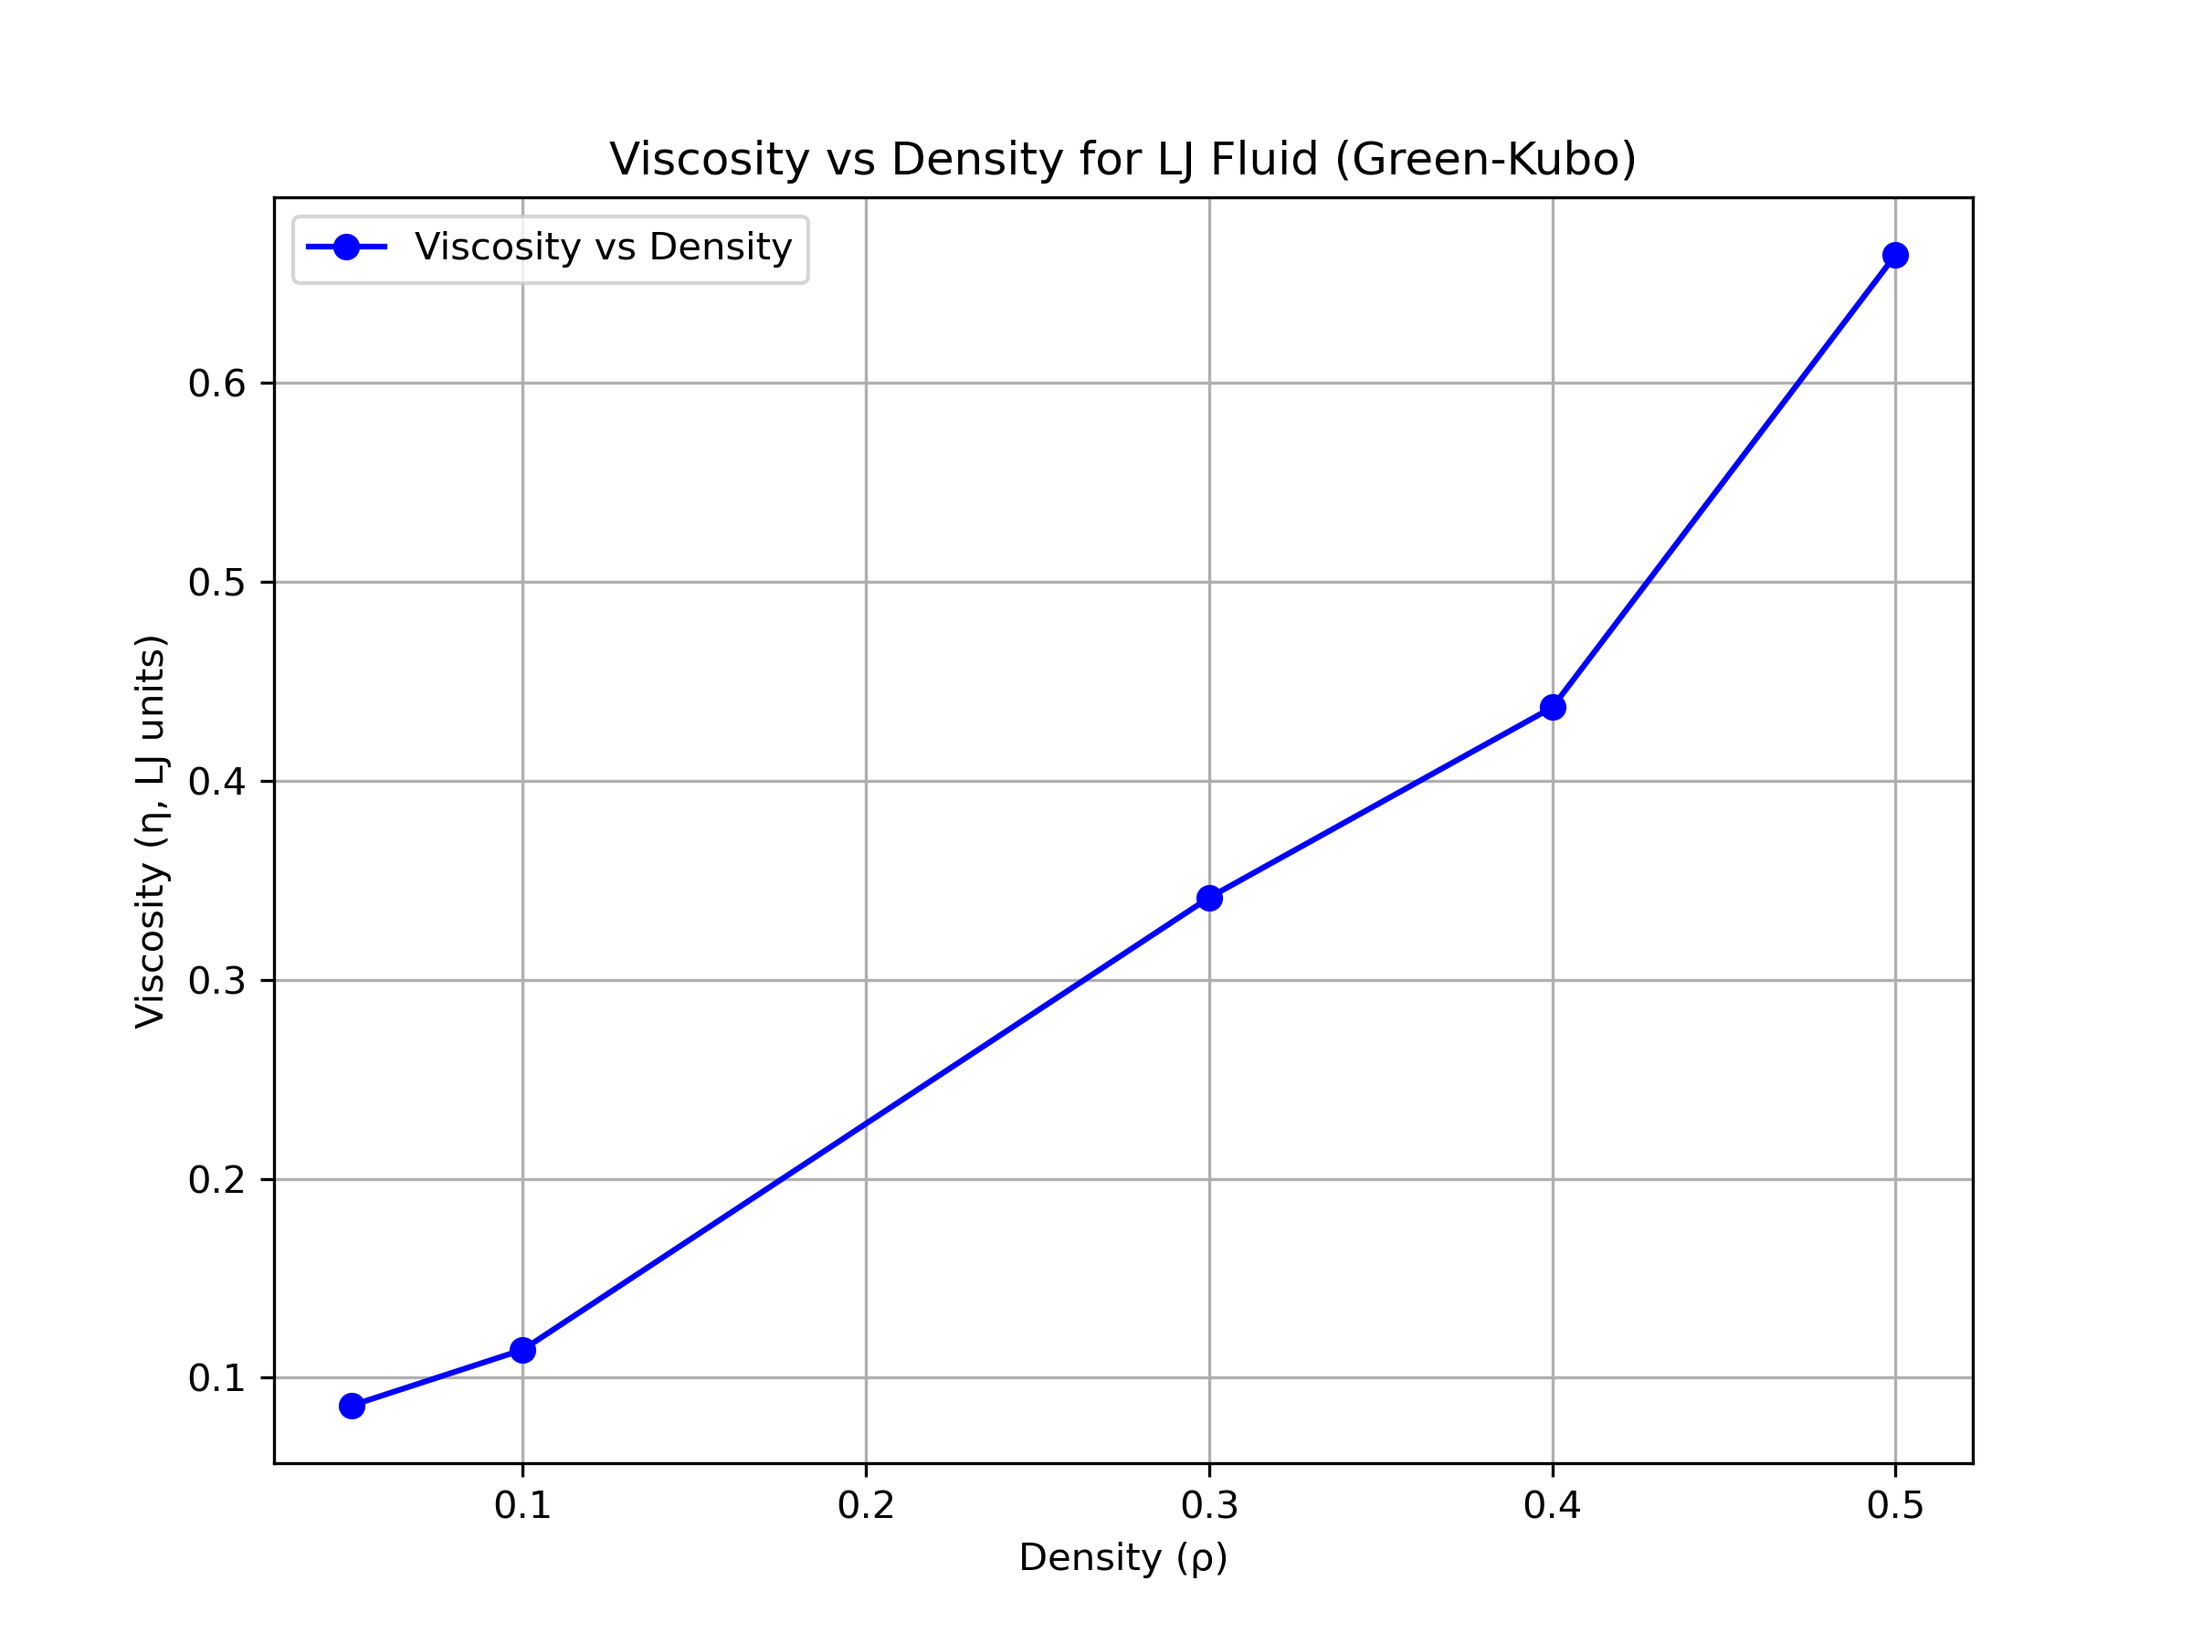
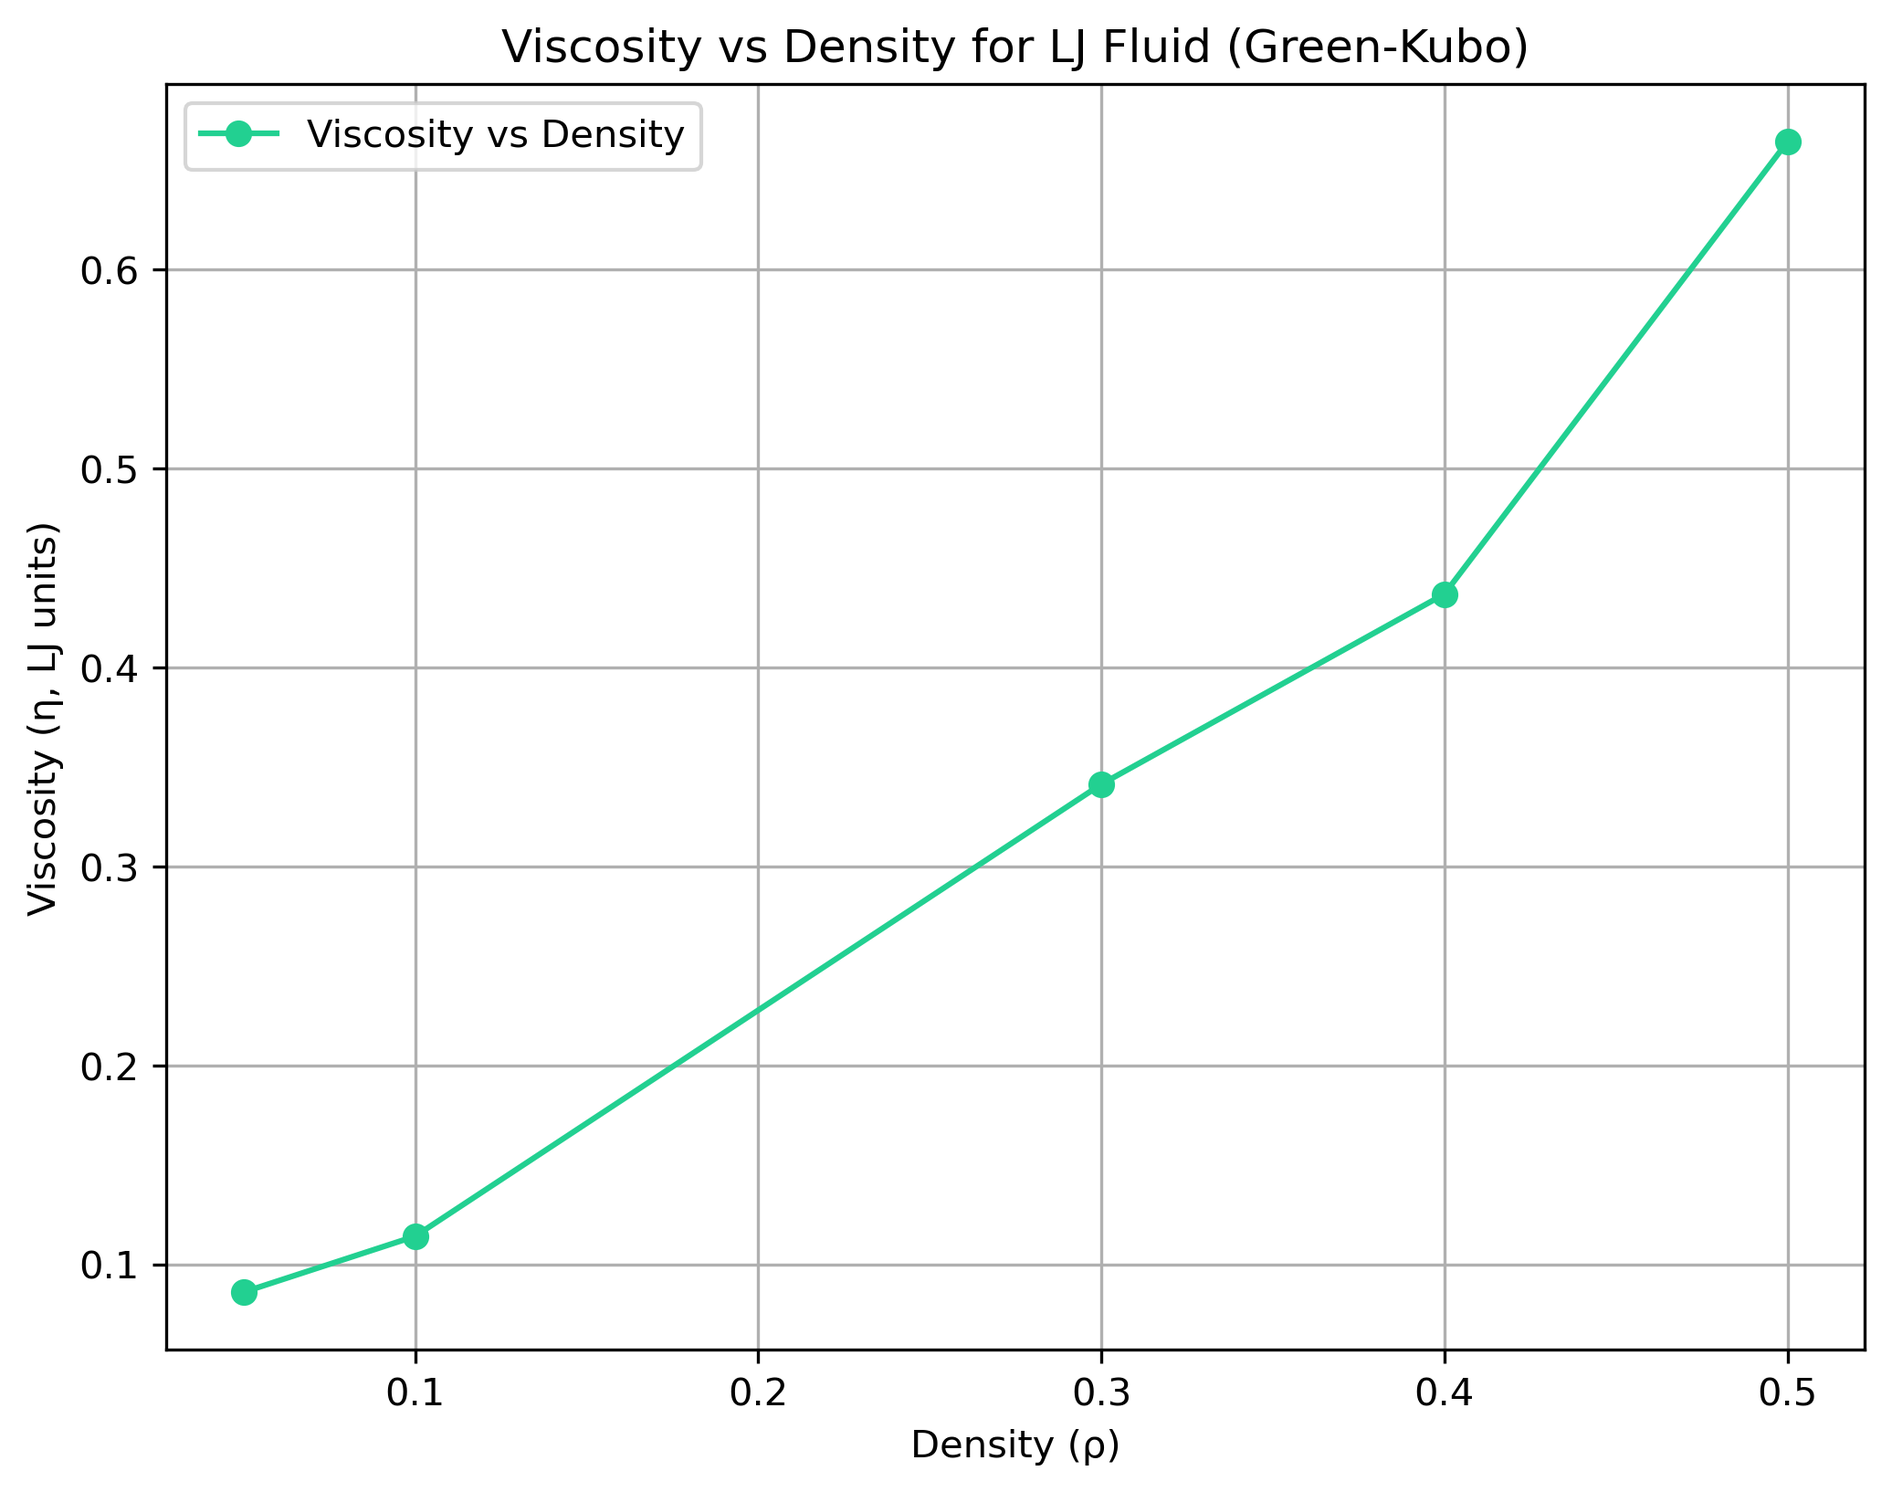
feb_5_9_AM_upate

diff --git a/Exercises/Exercise_4/density_profile_fitter.py b/Exercises/Exercise_4/density_profile_fitter.py
@@ -2,37 +2,39 @@ import numpy as np
 import matplotlib.pyplot as plt
 from scipy.optimize import curve_fit
 
-# Define the tangent hyperbolic mean-field function for fitting
+# -----------------------------
+# Define the tanh mean-field profile
+# -----------------------------
 def tanh_profile(z, rho_l, rho_g, z0, alpha):
     """
     Tanh function describing the liquid-gas density profile.
-    
-    Parameters:
-        z (float or array): Spatial coordinate.
-        rho_l (float): Liquid density.
-        rho_g (float): Gas density.
-        z0 (float): Interface position.
-        alpha (float): Interfacial width parameter.
-        
-    Returns:
-        float or array: Density profile at position z.
     """
     return 0.5 * (rho_l + rho_g) + 0.5 * (rho_l - rho_g) * np.tanh((z - z0) / alpha)
 
-# Load data from file (replace 'data.txt' with your actual file)
-# Data format: First column -> z, Second column -> density
+# -----------------------------
+# Load data
+# -----------------------------
+# Data format: first column -> z, second column -> density
 z, rho_noisy = np.loadtxt('averaged_density_profile.txt', unpack=True)
 
-# Estimate initial parameters from data
+# -----------------------------
+# Initial parameter estimates
+# -----------------------------
 rho_l_init = np.max(rho_noisy)
 rho_g_init = np.min(rho_noisy)
 z0_init = z[np.argmax(np.abs(np.gradient(rho_noisy)))]
 alpha_init = (np.max(z) - np.min(z)) / 10
 
-# Fit the density profile to the tangent hyperbolic function
-popt, pcov = curve_fit(tanh_profile, z, rho_noisy, p0=[rho_l_init, rho_g_init, z0_init, alpha_init])
+# -----------------------------
+# Curve fitting
+# -----------------------------
+popt, pcov = curve_fit(
+    tanh_profile,
+    z,
+    rho_noisy,
+    p0=[rho_l_init, rho_g_init, z0_init, alpha_init]
+)
 
-# Extract fitted parameters
 rho_l_fit, rho_g_fit, z0_fit, alpha_fit = popt
 
 print(f"Fitted Liquid Density: {rho_l_fit}")
@@ -40,22 +42,68 @@ print(f"Fitted Gas Density: {rho_g_fit}")
 print(f"Fitted Interface Position (z0): {z0_fit}")
 print(f"Fitted Interface Width (alpha): {alpha_fit}")
 
-# Calculate interface boundaries (e.g., z0 ± 2*alpha)
+# -----------------------------
+# Interface boundaries
+# -----------------------------
 interface_start = z0_fit - 2 * alpha_fit
 interface_end = z0_fit + 2 * alpha_fit
 
-# Plot the results and export as high-resolution image
+# -----------------------------
+# Generate random non-white colors
+# -----------------------------
+def random_color_nonwhite():
+    # RGB values between 0.0 and 0.85 to avoid white/light colors
+    return np.random.uniform(0.0, 0.85, size=3)
+
+data_color = random_color_nonwhite()
+fit_color = random_color_nonwhite()
+start_color = random_color_nonwhite()
+end_color = random_color_nonwhite()
+
+# -----------------------------
+# Plot results
+# -----------------------------
 plt.figure(figsize=(8, 6))
-plt.scatter(z, rho_noisy, label='Data', s=10, color='gray')
-plt.plot(z, tanh_profile(z, *popt), label='Fitted Profile', color='red')
-plt.axvline(interface_start, color='blue', linestyle='--', label='Interface Start')
-plt.axvline(interface_end, color='green', linestyle='--', label='Interface End')
+
+plt.scatter(
+    z,
+    rho_noisy,
+    label='Data',
+    s=10,
+    color=data_color
+)
+
+plt.plot(
+    z,
+    tanh_profile(z, *popt),
+    label='Fitted Profile',
+    color=fit_color,
+    linewidth=2
+)
+
+plt.axvline(
+    interface_start,
+    linestyle='--',
+    color=start_color,
+    label='Interface Start'
+)
+
+plt.axvline(
+    interface_end,
+    linestyle='--',
+    color=end_color,
+    label='Interface End'
+)
+
 plt.xlabel('z')
 plt.ylabel('Density')
+plt.title('Liquid–Gas Density Profile Fitting')
 plt.legend()
-plt.title('Liquid-Gas Density Profile Fitting')
-plt.savefig('density_profile_fit.png', dpi=300)
+plt.grid(True)
+
+# Save high-resolution figure
+plt.savefig('density_profile_fit.png', dpi=300, bbox_inches='tight')
 plt.close()
 
-print('Plot saved as density_profile_fit.png')
+print('Plot saved as density_profile_fit.png with unique colors')
 

diff --git a/Exercises/Exercise_1/plotter.py b/Exercises/Exercise_1/plotter.py
@@ -1,19 +1,32 @@
 import numpy as np
 import matplotlib.pyplot as plt
 
-# Function to load data from a text file
+# -----------------------------
+# Function to load data
+# -----------------------------
 def load_data(filename):
     try:
         data = np.loadtxt(filename, comments='#')
-        return data[:, 0], data[:, 1]  # Assuming two columns: x (d) and y (m, gamma, t)
+        return data[:, 0], data[:, 1]  # two columns
     except Exception as e:
         print(f"Error loading {filename}: {e}")
         return None, None
 
+
+# -----------------------------
 # Function to plot and save data
+# -----------------------------
 def plot_and_save(x, y, xlabel, ylabel, title, output_file):
+    # Random color, avoiding white/light colors
+    random_color = np.random.uniform(0.0, 0.85, size=3)
+
     plt.figure(figsize=(10, 6))
-    plt.plot(x, y, marker='o', linestyle='-', color='b')
+    plt.plot(
+        x, y,
+        marker='o',
+        linestyle='-',
+        color=random_color
+    )
     plt.xlabel(xlabel)
     plt.ylabel(ylabel)
     plt.title(title)
@@ -22,23 +35,27 @@ def plot_and_save(x, y, xlabel, ylabel, title, output_file):
     print(f"Plot saved as {output_file}")
     plt.close()
 
+
+# -----------------------------
 # Main execution
+# -----------------------------
 if __name__ == '__main__':
+
     # Load data from files
     m_d_x, m_d_y = load_data('m_vs_d.txt')
     gamma_d_x, gamma_d_y = load_data('gamma_vs_d.txt')
     t_d_x, t_d_y = load_data('t_vs_d.txt')
-   
+
     # Plot and save m_vs_d
     if m_d_x is not None and m_d_y is not None:
         plot_and_save(
-            m_d_x, 1/m_d_y,
+            m_d_x, 1 / m_d_y,
             xlabel='d',
             ylabel='1/m',
             title='1/m vs d',
             output_file='m_vs_d.png'
         )
-   
+
     # Plot and save gamma_vs_d
     if gamma_d_x is not None and gamma_d_y is not None:
         plot_and_save(
@@ -48,7 +65,7 @@ if __name__ == '__main__':
             title='1/γ vs d',
             output_file='gamma_vs_d.png'
         )
-   
+
     # Plot and save t_vs_d
     if t_d_x is not None and t_d_y is not None:
         plot_and_save(
@@ -58,5 +75,4 @@ if __name__ == '__main__':
             title='k_BT vs d',
             output_file='t_vs_d.png'
         )
-
 

diff --git a/Exercises/Solution/Exercise_1/plotter.py b/Exercises/Solution/Exercise_1/plotter.py
@@ -1,19 +1,32 @@
 import numpy as np
 import matplotlib.pyplot as plt
 
-# Function to load data from a text file
+# -----------------------------
+# Function to load data
+# -----------------------------
 def load_data(filename):
     try:
         data = np.loadtxt(filename, comments='#')
-        return data[:, 0], data[:, 1]  # Assuming two columns: x (d) and y (m, gamma, t)
+        return data[:, 0], data[:, 1]  # two columns
     except Exception as e:
         print(f"Error loading {filename}: {e}")
         return None, None
 
+
+# -----------------------------
 # Function to plot and save data
+# -----------------------------
 def plot_and_save(x, y, xlabel, ylabel, title, output_file):
+    # Random color, avoiding white/light colors
+    random_color = np.random.uniform(0.0, 0.85, size=3)
+
     plt.figure(figsize=(10, 6))
-    plt.plot(x, y, marker='o', linestyle='-', color='b')
+    plt.plot(
+        x, y,
+        marker='o',
+        linestyle='-',
+        color=random_color
+    )
     plt.xlabel(xlabel)
     plt.ylabel(ylabel)
     plt.title(title)
@@ -22,23 +35,27 @@ def plot_and_save(x, y, xlabel, ylabel, title, output_file):
     print(f"Plot saved as {output_file}")
     plt.close()
 
+
+# -----------------------------
 # Main execution
+# -----------------------------
 if __name__ == '__main__':
+
     # Load data from files
     m_d_x, m_d_y = load_data('m_vs_d.txt')
     gamma_d_x, gamma_d_y = load_data('gamma_vs_d.txt')
     t_d_x, t_d_y = load_data('t_vs_d.txt')
-   
+
     # Plot and save m_vs_d
     if m_d_x is not None and m_d_y is not None:
         plot_and_save(
-            m_d_x, 1/m_d_y,
+            m_d_x, 1 / m_d_y,
             xlabel='d',
             ylabel='1/m',
             title='1/m vs d',
             output_file='m_vs_d.png'
         )
-   
+
     # Plot and save gamma_vs_d
     if gamma_d_x is not None and gamma_d_y is not None:
         plot_and_save(
@@ -48,7 +65,7 @@ if __name__ == '__main__':
             title='1/γ vs d',
             output_file='gamma_vs_d.png'
         )
-   
+
     # Plot and save t_vs_d
     if t_d_x is not None and t_d_y is not None:
         plot_and_save(
@@ -58,5 +75,4 @@ if __name__ == '__main__':
             title='k_BT vs d',
             output_file='t_vs_d.png'
         )
-
 

diff --git a/Exercises/Exercise_3/plotter.py b/Exercises/Exercise_3/plotter.py
@@ -16,10 +16,23 @@ density = data[:, 0]
 viscosity = data[:, 1]
 
 # -----------------------------
+# Generate random non-white color
+# -----------------------------
+# RGB values between 0 and 0.85 to avoid white/light colors
+random_color = np.random.uniform(0.0, 0.85, size=3)
+
+# -----------------------------
 # Create plot
 # -----------------------------
 plt.figure(figsize=(8, 6))
-plt.plot(density, viscosity, marker='o', linestyle='-', color='b', label='Viscosity vs Density')
+plt.plot(
+    density,
+    viscosity,
+    marker='o',
+    linestyle='-',
+    color=random_color,
+    label='Viscosity vs Density'
+)
 
 # Add labels and title
 plt.xlabel("Density (ρ)")
@@ -31,4 +44,8 @@ plt.legend()
 plt.grid(True)
 
 # Save figure as high-resolution PNG
-plt.savefig(output_file, dpi=300)
+plt.savefig(output_file, dpi=300, bbox_inches='tight')
+plt.close()
+
+print(f"Plot saved as {output_file} with color {random_color}")
+

diff --git a/Exercises/Solution/Exercise_3/plotter.py b/Exercises/Solution/Exercise_3/plotter.py
@@ -16,10 +16,23 @@ density = data[:, 0]
 viscosity = data[:, 1]
 
 # -----------------------------
+# Generate random non-white color
+# -----------------------------
+# RGB values between 0 and 0.85 to avoid white/light colors
+random_color = np.random.uniform(0.0, 0.85, size=3)
+
+# -----------------------------
 # Create plot
 # -----------------------------
 plt.figure(figsize=(8, 6))
-plt.plot(density, viscosity, marker='o', linestyle='-', color='b', label='Viscosity vs Density')
+plt.plot(
+    density,
+    viscosity,
+    marker='o',
+    linestyle='-',
+    color=random_color,
+    label='Viscosity vs Density'
+)
 
 # Add labels and title
 plt.xlabel("Density (ρ)")
@@ -31,4 +44,8 @@ plt.legend()
 plt.grid(True)
 
 # Save figure as high-resolution PNG
-plt.savefig(output_file, dpi=300)
+plt.savefig(output_file, dpi=300, bbox_inches='tight')
+plt.close()
+
+print(f"Plot saved as {output_file} with color {random_color}")
+
